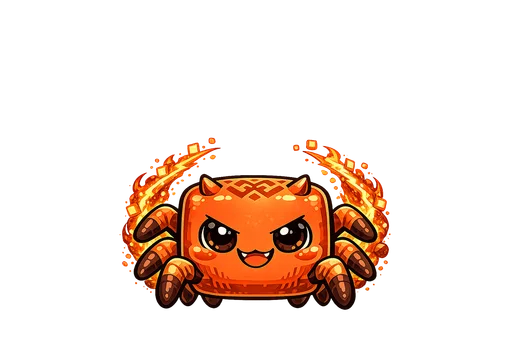
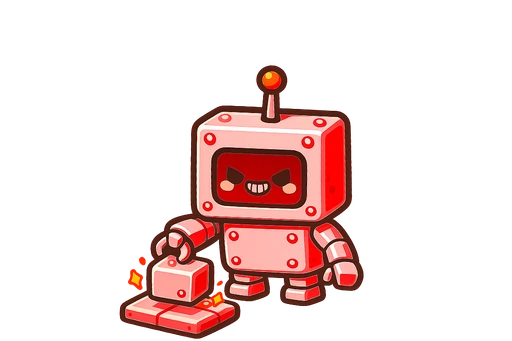
game: 雷城鐵機人(原蜘蛛)+鐵塊機制、前2後1陣型、餵卡回收1.0
- 蜘蛛→鐵機人:c36-c40 改名+3星進化(◯鐵機人/大鐵機/邪惡鐵機)+全套貼圖+電磁絞鎖
- 鐵塊機制 _ironAct:放連體鐵塊(1/1/2/3格)卡位,避開湊滿宮線,清了0傷害,盤面≤1/4停放;自己鐵塊未清→不放新塊(1星普攻/2星+2倍),清掉才再放
- 鐵塊清除金屬碎裂演出(清宮/清線+風技);computeClears 排除鐵塊傷害
- 雷城入門/初級/中級/上級關卡
- 3隻敵人關卡=前2後1陣型(中間站後,套用全部3隻關)
- 餵卡素材回收 0.6→1.0(練過的卡餵下去不虧)

Changed region(s): [[0.2188, 0.176, 0.7812, 0.9971]]

diff --git a/public/play/index.html b/public/play/index.html
@@ -109,7 +109,7 @@
       { emoji: '🐰', name: '兔系', color: '#e89ab0', cards: { fire: 'c31', water: 'c32', thunder: 'c33', earth: 'c34', wind: 'c35' } },   // 占位(圖/名待補)
       { emoji: '🐟', name: '魚系', color: '#7fc8e8', cards: { fire: 'c14', water: 'c17', thunder: 'c21', earth: 'c24', wind: 'c28' } },   // 獸魂隊(圖/名待補)
       { emoji: '🇹🇼', name: '台灣特有種', color: '#8fe0a8', cards: { fire: 'c15', water: 'c18', thunder: 'c22', earth: 'c26', wind: 'c30' } },
-      { emoji: '🕷', name: '妖·蜘蛛', color: '#b79bff', cards: { fire: 'c36', water: 'c37', thunder: 'c38', earth: 'c39', wind: 'c40' } },   // 雜牌卡(未標家族,保留 genin 1星,進化2星換岩甲圖)
+      { emoji: '🤖', name: '鐵機人', color: '#b79bff', cards: { fire: 'c36', water: 'c37', thunder: 'c38', earth: 'c39', wind: 'c40' } },   // 雜牌卡(未標家族,保留 genin 1星;1→2星換大鐵機圖,2→3星換邪惡鐵機圖,見 SPIDER_EVO/SPIDER_EVO2,原名蜘蛛,2026-07-31 改名鐵機人)
       { emoji: '👺', name: '哥布林', color: '#ff6a4a', cards: { fire: 'c41', water: 'c42', thunder: 'c43', earth: 'c44', wind: 'c45' } },   // 雜牌卡(未標家族,保留 genin 1星;1→2星換青年哥布林圖,2→3星換戰士哥布林圖,見 GHOST_EVO/GHOST_EVO2)
       { emoji: '🧱', name: '妖·牆', color: '#c9a86a', cards: { fire: 'c46', water: 'c47', thunder: 'c48', earth: 'c49', wind: 'c50' } },   // 雜牌卡(未標家族,保留 genin 1星,進化2星換城牆怪圖);土城盾兵/盾王借此圖
       { emoji: '🦆', name: '賊鴨', color: '#b06ad0', cards: { fire: 'c51', water: 'c52', thunder: 'c53', earth: 'c54', wind: 'c55' } },   // 雜牌卡(未標家族,保留 genin 1星;1→2星換大賊鴨圖,2→3星換盜賊鴨圖,見 WITCH_EVO/WITCH_EVO2,原名魔女);風城消卡片塊敵人/魔王借此圖(魔王另借 king_full)
@@ -127,7 +127,7 @@
     ['🐟', '魚', '#7fc8e8', 0x16314d, ['c14', 'c17', 'c21', 'c24', 'c28']],
     ['🐰', '兔', '#e89ab0', 0x3a1f2a, ['c31', 'c32', 'c33', 'c34', 'c35']],
     ['🐦', '鳥', '#c79bff', 0x231a26, ['c01', 'c04', 'c07', 'c25', 'c29']],
-    ['🕷', '妖', '#b79bff', 0x241a2e, ['c36', 'c37', 'c38', 'c39', 'c40']],
+    ['🤖', '鐵機人', '#b79bff', 0x241a2e, ['c36', 'c37', 'c38', 'c39', 'c40']],
     ['👺', '妖', '#ff6a4a', 0x2e1a1a, ['c41', 'c42', 'c43', 'c44', 'c45']],
     ['🧱', '妖', '#c9a86a', 0x2a2418, ['c46', 'c47', 'c48', 'c49', 'c50']],
     ['🦆', '妖', '#b06ad0', 0x241a2e, ['c51', 'c52', 'c53', 'c54', 'c55']],
@@ -366,7 +366,7 @@
     const ENEMY_BRIEF = {   // 🎓中級敵情簡報:每城第一次進場(中級+)跳一次說明,可勾「本關不再顯示」
       fire: { name: '火之洞窟', icon: '🔥', skill: '終結技', art: 'grunt_fire', threat: '魔王會「蓄力」放大招,一發打掉你大量血!', counter: '看到牠蓄力,趁機用「水」(剋火)清宮 → 打斷大招' },
       water: { name: '水之神殿', icon: '💚', skill: '補師', art: 'healer_water', threat: '補師會幫全體敵人回血,魔王還會「復活」被你清掉的小兵!', counter: '先集火解決補師;魔王詠唱復活時用「土」(剋水)清宮打斷' },
-      thunder: { name: '雷之高原', icon: '🕸', skill: '蜘蛛網', art: 'caster_thunder', threat: '術士會用蛛網黏住你托盤的一塊方塊,那手就少一塊能用!', counter: '看頭上預告;用「風」(剋雷)清宮打斷施法 / 解鎖' },
+      thunder: { name: '雷之高原', icon: '🤖', skill: '鐵塊', art: 'caster_thunder', threat: '鐵機人會在盤面放「鐵塊」卡住你的落點;清宮/清線能連鐵塊一起清,但鐵塊不算攻擊力→那一清傷害變弱!', counter: '優先清掉卡著鐵塊的宮(移除它+恢復攻擊);沒清掉的鐵塊,放它的鐵機人下輪會 2 倍攻擊' },
       earth: { name: '土之遺跡', icon: '🛡', skill: '護盾', art: 'shield_earth', threat: '敵人帶「護盾」,普通攻擊打不動牠!', counter: '一手清夠多格(HIT)或連夠多段(COMBO)→ 打破護盾' },
       wind: { name: '風之峽谷', icon: '💨', skill: '消屬塊', art: 'caster_wind', threat: '術士會消掉你卡上存的屬塊;魔王還用「黑洞」把整塊吸走!', counter: '屬塊別囤著、趕快用掉;魔王預告時用「火」(剋風)清宮打斷' },
     };
@@ -470,12 +470,12 @@
       { id: 'c33', name: '閃閃', el: 'thunder', race: 'beast', rank: 'jonin', atk: 275, hp: 300, rcv: 63, attrs: ['thunder'] },
       { id: 'c34', name: '墩墩', el: 'earth', race: 'beast', rank: 'jonin', atk: 100, hp: 900, rcv: 50, attrs: ['earth'] },
       { id: 'c35', name: '蓬蓬', el: 'wind', race: 'beast', rank: 'jonin', atk: 190, hp: 555, rcv: 63, attrs: ['wind'] },
-      /* ── 🕷 蜘蛛系(雜牌卡,故意不進 CARD_FAMILY/TW_IDS→保留 genin ★1、低三圍;1★→2★進化=換名換圖「岩甲◯蜘蛛」,見 SPIDER_EVO)── */
-      { id: 'c36', name: '火蜘蛛', el: 'fire', race: 'yokai', rank: 'genin', atk: 130, hp: 90, rcv: 8, attrs: ['fire'] },
-      { id: 'c37', name: '水蜘蛛', el: 'water', race: 'yokai', rank: 'genin', atk: 65, hp: 110, rcv: 24, attrs: ['water'] },
-      { id: 'c38', name: '雷蜘蛛', el: 'thunder', race: 'yokai', rank: 'genin', atk: 115, hp: 95, rcv: 14, attrs: ['thunder'] },
-      { id: 'c39', name: '土蜘蛛', el: 'earth', race: 'yokai', rank: 'genin', atk: 80, hp: 140, rcv: 14, attrs: ['earth'] },
-      { id: 'c40', name: '風蜘蛛', el: 'wind', race: 'yokai', rank: 'genin', atk: 100, hp: 100, rcv: 16, attrs: ['wind'] },
+      /* ── 🤖 鐵機人系(雜牌卡,故意不進 CARD_FAMILY/TW_IDS→保留 genin ★1、低三圍;1★→2★→3★三階進化,見 SPIDER_EVO/SPIDER_EVO2;內部 id/物種 key 沿用蜘蛛時期,原名"蜘蛛",2026-07-31 改名鐵機人)── */
+      { id: 'c36', name: '火鐵機人', el: 'fire', race: 'yokai', rank: 'genin', atk: 130, hp: 90, rcv: 8, attrs: ['fire'] },
+      { id: 'c37', name: '水鐵機人', el: 'water', race: 'yokai', rank: 'genin', atk: 65, hp: 110, rcv: 24, attrs: ['water'] },
+      { id: 'c38', name: '雷鐵機人', el: 'thunder', race: 'yokai', rank: 'genin', atk: 115, hp: 95, rcv: 14, attrs: ['thunder'] },
+      { id: 'c39', name: '土鐵機人', el: 'earth', race: 'yokai', rank: 'genin', atk: 80, hp: 140, rcv: 14, attrs: ['earth'] },
+      { id: 'c40', name: '風鐵機人', el: 'wind', race: 'yokai', rank: 'genin', atk: 100, hp: 100, rcv: 16, attrs: ['wind'] },
       /* ── 👹 鬼系(雜牌卡,完全鏡像蜘蛛系:故意不進 CARD_FAMILY/TW_IDS→保留 genin ★1、低三圍;1★→2★進化=換名換圖「◯鬼哥」,見 GHOST_EVO)── */
       { id: 'c41', name: '火哥布林', el: 'fire', race: 'yokai', rank: 'genin', atk: 140, hp: 85, rcv: 8, attrs: ['fire'] },
       { id: 'c42', name: '水哥布林', el: 'water', race: 'yokai', rank: 'genin', atk: 70, hp: 120, rcv: 22, attrs: ['water'] },
@@ -510,8 +510,8 @@
       { id: 'c64', name: '土晶精', el: 'earth', race: 'spirit', rank: 'chunin', atk: 20, hp: 120, rcv: 5, attrs: ['earth'] },
       { id: 'c65', name: '風晶精', el: 'wind', race: 'spirit', rank: 'chunin', atk: 20, hp: 120, rcv: 5, attrs: ['wind'] },
     ];
-    // 蜘蛛系 1★→2★進化換名換圖表:進化階(getCardEvo)≥1 → 顯示「岩甲◯蜘蛛」+ <id>_e_ 圖(canEvolve 已擋≥1 不可再進到 evo2,只有兩形)
-    const SPIDER_EVO = { c36: '岩甲火蜘蛛', c37: '岩甲水蜘蛛', c38: '岩甲雷蜘蛛', c39: '岩甲土蜘蛛', c40: '岩甲風蜘蛛' };
+    // 鐵機人系(原蜘蛛)1★→2★進化換名換圖表:進化階(getCardEvo)≥1 → 顯示「◯大鐵機」+ <id>_e_ 圖;2★→3★再進化見 SPIDER_EVO2
+    const SPIDER_EVO = { c36: '火大鐵機', c37: '水大鐵機', c38: '雷大鐵機', c39: '土大鐵機', c40: '風大鐵機' };
     // 鬼系(現已改名哥布林系)1★→2★進化換名換圖表:進化階(getCardEvo)≥1 → 顯示「◯青年哥布林」+ <id>_e_ 圖
     const GHOST_EVO = { c41: '火青年哥布林', c42: '水青年哥布林', c43: '雷青年哥布林', c44: '土青年哥布林', c45: '風青年哥布林' };
     const WALL_EVO = { c46: '火城牆怪', c47: '水城牆怪', c48: '雷城牆怪', c49: '土城牆怪', c50: '風城牆怪' };   // 牆怪 1★→2★進化換名換圖(鏡像蜘蛛/鬼系):進化階≥1 → 顯示「◯城牆怪」+ <id>_e_ 圖;土城盾王借城牆怪 e_full
@@ -519,10 +519,11 @@
     const YAKUSHI_EVO = { c56: '大火藥師', c57: '大水藥師', c58: '大雷藥師', c59: '大土藥師', c60: '大風藥師' };   // 藥師 1★→2★進化換名換圖(鏡射魔女):進化階≥1 → 顯示「大◯藥師」+ <id>_e_ 圖;水城魔王借大水藥師 e_full
     const EVO_CARDS = Object.assign({}, SPIDER_EVO, GHOST_EVO, WALL_EVO, WITCH_EVO, YAKUSHI_EVO);   // 合併進化雜牌卡名表:凡是「進化換名換圖」共用邏輯(cardArtKey/_loadCardArt/_loadCardThumbs/_ensureFullArt/canEvolve/GACHA_ROSTER/cardName/進化預覽)一律讀這裡,不分蜘蛛/鬼/牆/魔女/藥師
     // 哥布林系(原鬼系)2★→3★再進化名表:進化階(getCardEvo)≥2 → 顯示「◯戰士哥布林」+ <id>_e2_ 圖(3星,2026-07-29 加)。
-    // 目前哥布林系、賊鴨系(原魔女 c51~c55)支援 evo2;其他雜牌系(蜘蛛/牆/藥師)仍維持 1★→2★ 兩形上限。別系要開 evo2 就往 EVO2_CARDS 加。
+    // 目前哥布林系、賊鴨系(原魔女 c51~c55)、鐵機人系(原蜘蛛 c36~c40)支援 evo2;其他雜牌系(牆/藥師)仍維持 1★→2★ 兩形上限。別系要開 evo2 就往 EVO2_CARDS 加。
     const GHOST_EVO2 = { c41: '火戰士哥布林', c42: '水戰士哥布林', c43: '雷戰士哥布林', c44: '土戰士哥布林', c45: '風戰士哥布林' };
     const WITCH_EVO2 = { c51: '火盜賊鴨', c52: '水盜賊鴨', c53: '雷盜賊鴨', c54: '土盜賊鴨', c55: '風盜賊鴨' };   // 賊鴨(原魔女)2★→3★再進化名表:進化階≥2 → 顯示「◯盜賊鴨」+ <id>_e2_ 圖(3星,2026-07-30 加);魔王另借 king_full(4星「◯盜賊鴨王」非卡片)
-    const EVO2_CARDS = Object.assign({}, GHOST_EVO2, WITCH_EVO2);   // 合併「可進到 evo2(3星)」名表:目前哥布林系、賊鴨系支援,別的系要開 evo2 往這加
+    const SPIDER_EVO2 = { c36: '火邪惡鐵機', c37: '水邪惡鐵機', c38: '雷邪惡鐵機', c39: '土邪惡鐵機', c40: '風邪惡鐵機' };   // 鐵機人(原蜘蛛)2★→3★再進化名表:進化階≥2 → 顯示「◯邪惡鐵機」+ <id>_e2_ 圖(3星,2026-07-31 加);魔王另借 king_full(4星「◯惡鐵王」非卡片)
+    const EVO2_CARDS = Object.assign({}, GHOST_EVO2, WITCH_EVO2, SPIDER_EVO2);   // 合併「可進到 evo2(3星)」名表:目前哥布林系、賊鴨系、鐵機人系支援,別的系要開 evo2 往這加
     function cardName(id) { const c = ROSTER.find(x => x.id === id) || {}; const t = getCardEvo(id); if (t >= 2 && EVO2_CARDS[id]) return EVO2_CARDS[id]; return (EVO_CARDS[id] && t >= 1) ? EVO_CARDS[id] : c.name; }   // 卡片顯示名字統一入口(evo2 名表優先於 evo1 名表,再 fallback ROSTER.name)
     // CONFIG → battle-core.js
     const KATA = ['一之型', '二之型', '三之型', '四之型', '五之型', '禁術', '奧義'];   // LV1~7(簡單數字,日文漢字通用)
@@ -791,7 +792,7 @@
       wind: { name: '疾風亂舞', cd: 5, icon: '🌀', desc: '清掉最滿的一宮,化風刃單體攻擊(+1連擊)' },
     };
     // 物種卡專屬主動技(覆蓋屬性預設;activeSkill(el,id) 會優先吃這裡)→ 台灣隊等招牌卡用
-    const SPIDER_ACTIVE = { name: '蛛絲纏縛', cd: 4, icon: '🕸', desc: '鎖定 1 敵,其出手倒數 +1 手' };   // 🕷蜘蛛系(c36~c40)共用同一份主動技物件
+    const SPIDER_ACTIVE = { name: '電磁絞鎖', cd: 4, icon: '🤖', desc: '鎖定 1 敵,其出手倒數 +1 手' };   // 🤖鐵機人系(c36~c40,原蜘蛛)共用同一份主動技物件;技名 2026-07-31 改「電磁絞鎖」(原「蛛絲纏縛」),效果不變
     const GHOST_ACTIVE = { name: '怨擊', cd: 5, icon: '👊', desc: '對指定 1 敵造成 攻擊力×2 傷害(吃相剋)' };
     const WALL_ACTIVE = { name: '築牆阻擋', cd: 6, icon: '🧱', desc: '全體敵人出手倒數 +1 手' };   // 👹鬼系(c41~c45)共用同一份主動技物件
     const WITCH_ACTIVE = { name: '群鴨亂啄', cd: 6, icon: '🦆', desc: '對全體敵人造成 攻擊力×1.6 傷害(吃相剋)' };   // 🦆賊鴨系(c51~c55,原魔女):全體傷害(區隔🐶群擊×2、👹怨擊單體×2)
@@ -1532,7 +1533,7 @@
       return res;
     }
     const FEED_EXP = { genin: 60, chunin: 150, jonin: 400, kage: 900 };   // 各稀有度素材"基礎值"(per-instance level 後:實際經驗還要加上素材自己已投入的經驗,見 fodderFeedExp)
-    const FEED_RETURN_RATIO = 0.6;   // 素材吃回自己已投入經驗的比例;數值與後端 _lib/gamedata.ts FEED_RETURN_RATIO 一致(見 per-instance-level-spec.md「素材經驗新公式」)
+    const FEED_RETURN_RATIO = 1.0;   // 素材吃回自己已投入經驗的比例(1.0=全額吐回,練過的素材餵下去不虧,同龍族);數值與後端 _lib/gamedata.ts FEED_RETURN_RATIO 一致
     function fodderFeedExp(rank, level, sameEl) {   // 🆕 per-instance level:素材給的經驗看素材自己幾級(不再只看稀有度)。accInvested=素材已投入總經驗=25×(lv-1)×lv(封閉式,等價 expToNext(1..lv-1)累加);exp=round(base+accInvested×0.6)×(同屬?1.5:1)。公式須與後端 _lib/cards.ts cardFeedExp 一致
       const lv = (level || 1) < 1 ? 1 : (level || 1);
       const base = FEED_EXP[rank] || FEED_EXP.genin;
@@ -1608,7 +1609,7 @@
       const c = ROSTER.find(x => x.id === id), t = getCardEvo(id);
       if (!c) return { ok: false, msg: '卡片資料不存在' };
       if (MATERIAL_IDS.has(id)) return { ok: false, msg: '素材卡不可進化(拿去進化別的卡)' };   // 純素材:不給練成戰力卡
-      // 單一 cap:👺哥布林系 1★→2★→3★(cap 2);🕷蜘蛛/🧱牆/🔮魔女/💊藥師系只有兩形(cap 1);一般卡走 EVO_MAX。與 line 325 _evoCap、後端 evolve.ts evoCap 同一套,別再用 else-if(EVO_CARDS 含哥布林,t=1 會被誤擋)
+      // 單一 cap:👺哥布林系、🦆賊鴨系、🤖鐵機人系(原蜘蛛) 1★→2★→3★(cap 2);🧱牆/💊藥師系只有兩形(cap 1);一般卡走 EVO_MAX。與 line 325 _evoCap、後端 evolve.ts evoCap 同一套,別再用 else-if(EVO_CARDS 含哥布林,t=1 會被誤擋)
       const evoCap = EVO2_CARDS[id] ? 2 : (EVO_CARDS[id] ? 1 : EVO_MAX);
       if (t >= evoCap) return { ok: false, msg: '已達進化上限' };
       if (getCardLv(id) < MAXLV) return { ok: false, msg: '需先練滿 Lv.' + MAXLV };
@@ -2231,7 +2232,7 @@
         if (this.counterTeach) _loadElSvgs(this);   // 🩹序章弱點徽章要用元素 SVG icon(el_<el>)
         { const d = this.dungeonId, b = DUNGEON_BG[d]; if (b) { if (!this.textures.exists('bg_' + d + '_back')) this.load.image('bg_' + d + '_back', b.back); if (!this.textures.exists('bg_' + d + '_front')) this.load.image('bg_' + d + '_front', b.front); } }   // 只載「當前這關」背景(不再一次載全部地城)
         if (this.dungeonId === 'tower') TOWER_MID.forEach(c => { if (!this.textures.exists(c.key)) this.load.image(c.key, c.src); });   // 塔中景元素方塊→只在打塔時載
-        if (this.dungeonId === 'thunder') _loadCardArt(this, ['c38']);   // 🕷 雷之高原借蜘蛛透明大圖當敵圖:載 c38雷蜘蛛(法師)+岩甲雷蜘蛛(魔王,_e)完整大圖
+        if (this.dungeonId === 'thunder') { _loadCardArt(this, ['c38']); if (!this.textures.exists('card_c38_king_full')) this.load.image('card_c38_king_full', 'art/cards/c38_king_full.webp'); }   // 🤖 雷之高原借鐵機人(原蜘蛛)透明大圖當敵圖:載 c38雷鐵機人(雜兵)完整大圖;魔王另載專屬 4星雷惡鐵王大圖(非玩家卡,只在此當魔王,比照 wind 分支)
         if (this.dungeonId === 'fire') { _loadCardArt(this, ['c41']); if (!this.textures.exists('card_c41_king_full')) this.load.image('card_c41_king_full', 'art/cards/c41_king_full.webp'); }   // 👺 火之火山借哥布林卡透明大圖當敵圖:載 c41哥布林(雜兵)完整大圖;魔王另載專屬 4星哥布林酋長大圖(非玩家卡,只在此當魔王)
         if (this.dungeonId === 'earth') _loadCardArt(this, ['c49']);   // 🧱 土之山岳借牆怪透明大圖當盾兵/盾王圖:載 c49土牆怪(盾兵)+土城牆怪(盾王,_e)完整大圖(比照 fire 分支)
         if (this.dungeonId === 'wind') { _loadCardArt(this, ['c55']); if (!this.textures.exists('card_c55_king_full')) this.load.image('card_c55_king_full', 'art/cards/c55_king_full.webp'); }   // 🦆 風之峽谷借賊鴨(原魔女)透明大圖當消卡片塊敵/魔王圖:載 c55風賊鴨(小兵)完整大圖;魔王另載專屬 4星風賊鴨王大圖(非玩家卡,只在此當魔王,比照 fire 分支)
@@ -2257,7 +2258,10 @@
       enemyTexKey(e) {
         const el = e.el; let dk = (this.diff && this.diff.key) || 'normal';
         if (this.dungeonId === 'prologue') dk = 'baby';   // 序章=新手村:挑圖固定當嬰兒級(只換外觀,不動數值)→ 魔王 boss_baby(m002)+雜兵 grunt(m001),不出 m003 以上兇怪
-        if (this.dungeonId === 'thunder') {   // 🕷 雷之高原=蜘蛛巢:魔王→岩甲雷蜘蛛、法師(麻痺/術士)→雷蜘蛛(借 c38 蜘蛛卡的方形縮圖當敵圖)
+        if (this.dungeonId === 'thunder') {   // 🤖 雷之高原=鐵機人城(原蜘蛛巢):tier 星級圖優先(1星→c38、2星→_e、3星→_e2);無 tier 的魔王才用 4星惡鐵王
+          const gk = e.tier === 3 ? 'card_c38_e2_full' : e.tier === 2 ? 'card_c38_e_full' : e.tier === 1 ? 'card_c38_full' : null;
+          if (gk && this.textures.exists(gk)) return gk;
+          if (e.boss && this.textures.exists('card_c38_king_full')) return 'card_c38_king_full';
           if (e.boss && this.textures.exists('card_c38_e_full')) return 'card_c38_e_full';
           if ((e.paralyze > 0 || e.arch === 'caster') && this.textures.exists('card_c38_full')) return 'card_c38_full';
         }
@@ -3317,10 +3321,16 @@
           { x: BX0 + BW5 * 0.18, dy: 18 }, { x: CX, dy: 18 }, { x: BX0 + BW5 * 0.82, dy: 18 },   // 索引0,1,2=前排左/中/右(較低、較前);對稱以 CX 為中心
           { x: BX0 + BW5 * 0.34, dy: -30 }, { x: BX0 + BW5 * 0.66, dy: -30 },                      // 索引3,4=後排左/右(較高、站前排空隙、被前排半遮);0.34/0.66 對稱且拉開
         ] : null;
+        const THREE = n === 3 && !this.enemyLab && !this.tut && !this.lesson;   // 🎯 3隻→前2後1(像魔王關:兩側站前、中間站後排被半遮);實驗室/教學/課程固定站法不套
+        const BW3 = W - 2 * BX0, threeLay = THREE ? [
+          { x: BX0 + BW3 * 0.20, dy: 16 },   // 0 左·前(往前壓低)
+          { x: CX, dy: -18 },                // 1 中·後(較高、站後排、z-order 被兩側半遮)
+          { x: BX0 + BW3 * 0.80, dy: 16 },   // 2 右·前
+        ] : null;
         this.enemies.forEach((e, i) => {
-          const lay = fiveLay && fiveLay[i];
+          const lay = (fiveLay && fiveLay[i]) || (threeLay && threeLay[i]);
           const x = lay ? Math.round(lay.x) : (this.enemyLab ? [Math.round(W * 0.16), CX, Math.round(W * 0.84)][i] : Math.round(CX + ((20 + slot * (i + 0.5)) - CX) * ENEMY_SPREAD)), cy = lay ? Math.round(BATTLE_CY + lay.dy) : BATTLE_CY;   // 前3後2:各自 x/y;實驗室固定三點;否則單排往中央集中
-          let szc = FIVE ? Math.max(50, Math.min(96, Math.round((CARDS_Y - 81) * 0.58))) : Math.max(50, Math.min(slot - 8, 126, Math.round((CARDS_Y - 81) * 0.92)));   // 前3後2:縮小讓兩排塞得下+不擋卡;否則原尺寸(取寬/高空檔較小者)
+          let szc = FIVE ? Math.max(50, Math.min(96, Math.round((CARDS_Y - 81) * 0.58))) : THREE ? Math.max(50, Math.min(slot - 8, 108, Math.round((CARDS_Y - 81) * 0.78))) : Math.max(50, Math.min(slot - 8, 126, Math.round((CARDS_Y - 81) * 0.92)));   // 前3後2/前2後1:縮小讓前後排塞得下+不擋卡;否則原尺寸(取寬/高空檔較小者)
           if (this.enemyLab && e.boss) szc = Math.round(szc * 1.2);   // 實驗室魔王較大
           e.cardW = szc; e.cardH = szc;
           e.card = this.add.rectangle(x, cy, szc, szc, 0x000000, 0).setInteractive();   // 無底色:透明矩形只當點擊區
@@ -3367,7 +3377,7 @@
         if (!this.enemyLab) this.enemies.forEach(e => { if (e.shield && !e.dead && e.sprite) { e.shieldUp = true; this._buildATField(e, e.shieldKind || 'hit'); } });   // 🛡盾兵/盾王:進場即帶盾罩(AT力場;實驗室不自動掛,靠demo鈕)
         this.enemies.forEach(e => { if (e.shadow) this.enemyG.add(e.shadow); });   // 影は全 sprite の背面(先に add)
         // 敵方同層 z 序:敵中 > 敵左 > 敵右(越靠中央畫越上;同距時左>右)。依此由後往前加入容器
-        const zorder = FIVE ? [3, 4, 0, 2, 1] : this.enemies.map((e, i) => i).sort((a, b) => {   // 前3後2:後排(3,4)先加畫在底、前排(0前左/2前右/1前中最上)後加→前排半遮後排
+        const zorder = FIVE ? [3, 4, 0, 2, 1] : THREE ? [1, 0, 2] : this.enemies.map((e, i) => i).sort((a, b) => {   // 前2後1:中間(1)先加畫在底(站後排被半遮)、兩側(0左/2右)後加;前3後2同理;平排則靠中央者最上
           const ba = this.enemies[a].boss ? 0 : 1, bb = this.enemies[b].boss ? 0 : 1;
           if (ba !== bb) return ba - bb;   // 魔王先加→畫在最底(站護衛後面)
           const da = Math.abs(this.enemies[a].card.x - CX), db = Math.abs(this.enemies[b].card.x - CX);
@@ -3477,7 +3487,7 @@
           rc.setAlpha(1).setScale(1); if (sp) { this.tweens.killTweensOf(sp); sp.setAlpha(1).setScale(RECT / 96); }   // 還原溶解動畫殘留的 alpha/scale
           if (this.board[r][c]) {
             const el = this.board[r][c].el;
-            if (el === 'junk') { rc.setFillStyle(0x4a4e57).setStrokeStyle(2, 0x20232a, 0.95); if (sp) sp.setVisible(false); }   // 鐵塊維持鋼底立體(drawJunkFx),不套糖果塊
+            if (el === 'junk' || el === 'iron') { rc.setFillStyle(el === 'iron' ? 0x455266 : 0x4a4e57).setStrokeStyle(2, 0x20232a, 0.95); if (sp) sp.setVisible(false); }   // 鋼鐵塊(junk硬鎖/iron可清但0傷害):鋼底立體不套糖果塊;iron 偏藍鋼色區分
             else { const fc = EL[el] ? EL[el].color : NEUTRAL_FILL; rc.setFillStyle(be ? EL[be].dark : NEUTRAL_DARK).setStrokeStyle(2, 0x000000, 0); if (sp) sp.setTexture(this._ensureBlockTex(fc)).setVisible(true); }   // 暗底格 + 圓角糖果塊(貼圖):圓角露出格底=塊分明
           }
           else { rc.setFillStyle(be ? EL[be].dark : NEUTRAL_DARK).setStrokeStyle(2, 0x000000, 0); if (sp) sp.setVisible(false); }
@@ -3493,7 +3503,7 @@
         if (this.junkNums) this.junkNums.forEach(t => t.destroy()); this.junkNums = [];
         for (let r = 0; r < N; r++)for (let c = 0; c < N; c++) {
           const cell = this.board[r][c]; if (!cell) continue; const x = BX0 + c * CS, y = BY0 + r * CS, s = RECT;
-          if (cell.el === 'junk') {
+          if (cell.el === 'junk' || cell.el === 'iron') {
             const p = 2, t = 3;
             g.fillStyle(0x6d727c, 0.9); g.fillRect(x + p, y + p, s - 2 * p, t); g.fillRect(x + p, y + p, t, s - 2 * p);                       // 左/上亮邊
             g.fillStyle(0x282b31, 0.95); g.fillRect(x + p, y + s - p - t, s - 2 * p, t); g.fillRect(x + s - p - t, y + p, t, s - 2 * p);              // 右/下暗邊
@@ -3879,7 +3889,7 @@
           this.renderTray(); this.tonFloat('★ 靈猴造塊', '#b6ffae');
           return;
         }
-        if (cid === 'c36' || cid === 'c37' || cid === 'c38' || cid === 'c39' || cid === 'c40') {   // 🕷蜘蛛系 蛛絲纏縛:鎖定單敵,出手延遲 +1,CD4(比照 fire/c22 的 targetEnemy() 單體鎖定寫法)
+        if (cid === 'c36' || cid === 'c37' || cid === 'c38' || cid === 'c39' || cid === 'c40') {   // 🤖鐵機人系(原蜘蛛) 電磁絞鎖:鎖定單敵,出手延遲 +1,CD4(比照 fire/c22 的 targetEnemy() 單體鎖定寫法)
           const tgt = this.targetEnemy(); if (!tgt) return;
           const col = EL[card.el] ? EL[card.el].color : 0xb79bff;
           this.chargeAt(ox, oy, col, 300);
@@ -3996,7 +4006,9 @@
         this.combo += 1; const comboMult = comboMultiplier(this.combo, this.lead);   // battle-core 共用 combo 倍率
         const tgt = this.targetEnemy() || this.enemies.find(e => !e.dead);
         const wmul = tgt ? (EL.wind.beats === tgt.el ? CONFIG.ADV_MULT : ((EL[tgt.el] && EL[tgt.el].beats === 'wind') ? CONFIG.WEAK_MULT : CONFIG.NORM_MULT)) : 1;
-        const dmg = Math.round((cellsB.length * CONFIG.HIT_BASE + atk * wmul * CONFIG.ELEM_RATE * cellsB.length) * comboMult * WIND_SKILL_MUL);   // ×WIND_SKILL_MUL:風主動技倍率(追火單發爆發)
+        const dmgN = cellsB.reduce((s, rc) => s + ((this.board[rc[0]][rc[1]] && this.board[rc[0]][rc[1]].el === 'iron') ? 0 : 1), 0);   // 🔩鐵塊清了不計攻擊(風技清宮同理,排除鐵塊格)
+        const dmg = Math.round((dmgN * CONFIG.HIT_BASE + atk * wmul * CONFIG.ELEM_RATE * dmgN) * comboMult * WIND_SKILL_MUL);   // ×WIND_SKILL_MUL:風主動技倍率(追火單發爆發)
+        cellsB.filter(([r, c]) => this.board[r][c] && this.board[r][c].el === 'iron').forEach(([r, c]) => this._junkShatter && this._junkShatter(BX0 + c * CS + RECT / 2, BY0 + r * CS + RECT / 2, 0x9aa8bd, 'break'));   // 🔩風技清宮也連鐵塊清→金屬碎裂
         cellsB.forEach(([r, c]) => { this.board[r][c] = null; }); this.refreshBoard(); this.showCombo(); this.renderCombo(true);
         this.labSnd('s_clear_n', 0.65);   // 風技就是解宮 → 用解宮 9hit 音(powerup10 一次),不用通用主動技音
         const cen = this.cellCenter(br + 1, bc + 1), col = EL.wind.color;
@@ -4708,6 +4720,69 @@
         }
         this.enemyAttack(e); e.timer = e.interval;
       }
+      _ironAct(e) {   // 🤖鐵機人出手:普通攻擊 + 放連體鐵塊(e.iron格)卡位;鐵塊清了不計攻擊(battle-core)、避開會湊滿宮/線的位置;盤面≤1/4空停放(免卡盤);ironPunish 敵上次鐵塊沒清→這手改2倍攻擊不放新塊(防洪+懲罰)
+        const ex = e.sprite ? e.sprite.x : CX, ey = (e.sprite ? e.sprite.y : 60);
+        const prevAlive = e._ironCells && e._ironCells.some(rc => { const cell = this.board[rc[0]][rc[1]]; return cell && cell.el === 'iron'; });   // 自己上次放的鐵塊還在?(不分星級都要判→免一直堆鐵塊清不完);保留 _ironCells 繼續追蹤,不清掉
+        if (prevAlive) {   // 鐵塊還在→這回合不放新塊;ironPunish(2星+)→2倍攻擊,1星→普通攻擊。等玩家把它清掉,下輪才會再放
+          if (e.ironPunish) { this.floatText(ex, ey - 34, '🤖 鐵塊未清·2倍攻擊!', '#ffd24a'); this.enemyAttack(e, { dmg: e.atk * 2, big: true }); }
+          else this.enemyAttack(e);
+          e.timer = e.interval; return;
+        }
+        let empty = 0; for (let r = 0; r < N; r++) for (let c = 0; c < N; c++) if (!this.board[r][c]) empty++;
+        const shape = (empty > (N * N) / 4) ? this._findIronSpot(e.iron || 1) : null;   // 安全閥:空格>1/4 才放
+        if (!shape || !shape.length) { this.enemyAttack(e); e.timer = e.interval; return; }   // 盤面緊/無合法位→普通攻擊
+        shape.forEach(rc => { this.board[rc[0]][rc[1]] = { el: 'iron' }; });   // 放鐵塊(模型)
+        e._ironCells = shape.map(rc => rc.slice());   // 記住這次放的格,下輪判有沒有被清
+        this._eneCast && this._eneCast(e); this.chargeAt(ex, ey, 0x8a93a3, 340); this.labSnd && this.labSnd('s_block', 0.5);
+        this.floatText(ex, ey - 34, '🤖 放置鐵塊 ×' + shape.length, '#aab2c2');
+        shape.forEach((rc, i) => {
+          const cen = this.cellCenter(rc[0], rc[1]);
+          this.time.delayedCall(200 + i * 110, () => {
+            const ctrl = { x: (ex + cen.x) / 2, y: Math.min(ey, cen.y) - 70 };
+            this.flyBall(ex, ey, cen.x, cen.y, 0x9aa3b3, ctrl, 340, () => {   // 鐵機人→該格丟一塊鐵
+              this.labSnd && this.labSnd('s_boom', 0.4);
+              const pf = this.add.circle(cen.x, cen.y, RECT * 0.5, 0x9aa3b3, 0.7).setBlendMode(Phaser.BlendModes.ADD).setDepth(DEPTH.fx);
+              this.tweens.add({ targets: pf, scale: 1.5, alpha: 0, duration: 300, onComplete: () => pf.destroy() });
+              if (!this.resultOpen) this.refreshBoard();   // 鐵塊落地→重繪(鋼鐵外觀)
+            });
+          });
+        });
+        this.enemyAttack(e); e.timer = e.interval;   // 放塊也照常攻擊
+      }
+      _findIronSpot(size) {   // 找連體 size 格的空位放鐵塊:避開會湊滿宮/線的位置、偏好半滿宮(清得掉);找不到就降級 size-1…1;都沒有回 null
+        const empty = [];
+        for (let r = 0; r < N; r++) for (let c = 0; c < N; c++) if (!this.board[r][c]) empty.push([r, c]);
+        if (!empty.length) return null;
+        const boxFillOf = (r, c) => { const br = Math.floor(r / 3) * 3, bc = Math.floor(c / 3) * 3; let n = 0; for (let rr = br; rr < br + 3; rr++) for (let cc = bc; cc < bc + 3; cc++) if (this.board[rr][cc]) n++; return n; };
+        const completes = (cells) => {   // 放下後會不會讓某宮/線變滿(→替玩家觸發清除,要避免)。iron/一般格算填滿,junk 不算
+          const setK = new Set(cells.map(rc => rc[0] + '_' + rc[1]));
+          const isFilled = (r, c) => setK.has(r + '_' + c) || !!(this.board[r][c] && this.board[r][c].el !== 'junk');
+          for (const rc of cells) {
+            const r = rc[0], c = rc[1], br = Math.floor(r / 3) * 3, bc = Math.floor(c / 3) * 3; let boxFull = true;
+            for (let rr = br; rr < br + 3 && boxFull; rr++) for (let cc = bc; cc < bc + 3; cc++) if (!isFilled(rr, cc)) { boxFull = false; break; }
+            if (boxFull) return true;
+            let rowFull = true; for (let cc = 0; cc < N; cc++) if (!isFilled(r, cc)) { rowFull = false; break; } if (rowFull) return true;
+            let colFull = true; for (let rr = 0; rr < N; rr++) if (!isFilled(rr, c)) { colFull = false; break; } if (colFull) return true;
+          }
+          return false;
+        };
+        const emptyKey = new Set(empty.map(rc => rc[0] + '_' + rc[1]));
+        const grow = (start, sz) => {   // 從 start 沿相鄰空格長成連體 sz 格
+          const used = new Set([start[0] + '_' + start[1]]), shape = [start];
+          while (shape.length < sz) {
+            const cands = [];
+            for (const rc of shape) for (const d of [[0, 1], [0, -1], [1, 0], [-1, 0]]) { const nr = rc[0] + d[0], nc = rc[1] + d[1], k = nr + '_' + nc; if (nr >= 0 && nr < N && nc >= 0 && nc < N && emptyKey.has(k) && !used.has(k)) cands.push([nr, nc]); }
+            if (!cands.length) break;
+            const p = cands[Math.floor(Math.random() * cands.length)]; shape.push(p); used.add(p[0] + '_' + p[1]);
+          }
+          return shape;
+        };
+        for (let sz = size; sz >= 1; sz--) {
+          const starts = empty.slice().sort(() => Math.random() - 0.5).sort((a, b) => { const g = (f) => (f >= 2 && f <= 6) ? 0 : 1; return g(boxFillOf(a[0], a[1])) - g(boxFillOf(b[0], b[1])); });   // 半滿宮(2~6已填)起點優先
+          for (const st of starts) { const shape = grow(st, sz); if (shape.length === sz && !completes(shape)) return shape; }
+        }
+        return null;
+      }
       _eatBlockGrunt(e, bi) {   // 術士雜兵:身前開消屬黑洞(慢)→從黑洞射一發到卡上那塊→卡上碎裂(久一點)→該塊 −1 LV(LV1→整塊消)
         const s = this.stored[bi]; if (!s) { this.enemyAttack(e); return; } const el = s.el, col = EL[el].color, ADD = Phaser.BlendModes.ADD, ex = e.sprite ? e.sprite.x : CX, ey = (e.sprite ? e.sprite.y : 60) + (e.cardH || 70) * 0.04, so = this.teamCards[bi] && this.teamCards[bi].storeObj, tx = so ? so.x : CX, ty = so ? so.y : CARDS_Y;
         this._eneCast(e); this.labSnd && this.labSnd('s_clear15', 0.4);
@@ -5018,7 +5093,7 @@
           if (this.resultOpen) { this.locked = false; return; }   // 期間已開結算/勝敗畫面→不再推進
           try {
             this._shieldHandActive = false; this._shieldBreakShown = false; this._lockedStore = {}; this._clearAllLockBadges();   // 🐻本手護盾旗標重置(首擋→轉true→全手擋);🌀封卡旗標每敵回合開始清+清殘留🔒徽章(魔王設→套用到玩家下一手)
-            this.enemies.forEach(e => { if (e.dead || e.hp <= 0) return; if ((e.sealed || 0) > 0) { e.sealed--; return; } if (e._finInterrupted) { e._finInterrupted = false; return; } if (e.finCD > 0) { e.timer--; const FS = e.finStages || 2; if (e.timer <= 0) { e._charging = false; this._launchFinisher(e); } else if (e.timer <= FS) { e._charging = true; this._showEnemyOrb(e, e.timer === 1 ? 3 : Math.min(2, FS - e.timer + 1)); } else { e._charging = false; } this.animTurnGlass(e); return; } if (e._charging) { this.enemyFinisher(e); this.animTurnGlass(e); return; } e.timer--; if (e.timer <= 0) { if (e.finisher > 0) this.enemyFinisher(e); else if (e.healAlly > 0) { this._medicAct(e); } else if (e.eatStored > 0) { this._eatAct(e); } else if (e.shield) { this._shieldAct(e); } else if (e.paralyze > 0) { this._paralyzeAct(e); } else if (e.peck > 0) { this._peckAct(e); } else { this.enemyAttack(e); e.timer = e.interval; } } this.animTurnGlass(e); });   // ⚡麻痺:e.timer 歸0→_paralyzeAct(頭上CD與發動一致);魔王有鎖改攻擊   // 敵出手;補師=雙模式/魔王補師=攻擊+補+復活(_medicAct);★被打斷終結技的敵→跳過;蓄力中每手推進一階;封印=凍結
+            this.enemies.forEach(e => { if (e.dead || e.hp <= 0) return; if ((e.sealed || 0) > 0) { e.sealed--; return; } if (e._finInterrupted) { e._finInterrupted = false; return; } if (e.finCD > 0) { e.timer--; const FS = e.finStages || 2; if (e.timer <= 0) { e._charging = false; this._launchFinisher(e); } else if (e.timer <= FS) { e._charging = true; this._showEnemyOrb(e, e.timer === 1 ? 3 : Math.min(2, FS - e.timer + 1)); } else { e._charging = false; } this.animTurnGlass(e); return; } if (e._charging) { this.enemyFinisher(e); this.animTurnGlass(e); return; } e.timer--; if (e.timer <= 0) { if (e.finisher > 0) this.enemyFinisher(e); else if (e.healAlly > 0) { this._medicAct(e); } else if (e.eatStored > 0) { this._eatAct(e); } else if (e.shield) { this._shieldAct(e); } else if (e.paralyze > 0) { this._paralyzeAct(e); } else if (e.peck > 0) { this._peckAct(e); } else if (e.iron > 0) { this._ironAct(e); } else { this.enemyAttack(e); e.timer = e.interval; } } this.animTurnGlass(e); });   // ⚡麻痺:e.timer 歸0→_paralyzeAct(頭上CD與發動一致);魔王有鎖改攻擊   // 敵出手;補師=雙模式/魔王補師=攻擊+補+復活(_medicAct);★被打斷終結技的敵→跳過;蓄力中每手推進一階;封印=凍結
             const dotRate = Math.max(0, ...this.enemies.filter(e => !e.dead && e.hp > 0 && !(e.sealed > 0)).map(e => e.dot || 0));   // 🔥火關灼燒光環:有灼燒敵活著→每手扣玩家血(取最大率、不疊加);★封印中不灼燒
             if (dotRate > 0) { const dd = Math.max(1, Math.round(this.maxHP * dotRate)); this.playerHP = Math.max(0, this.playerHP - dd); this.floatText(CX, PHP_Y - 16, '🔥灼燒 -' + dd, '#ff7a4a'); this.animPlayerHP(false); if (this.playerHP <= 0) this.gameOver('灼燒焚身'); }
             this.enemies.forEach(e => { if (!e.dead && e.hp > 0 && !(e.sealed > 0) && e.regen > 0) { const hh = Math.max(1, Math.round(e.max * e.regen)); e.hp = Math.min(e.max, e.hp + hh); if (e.sprite) this.floatText(e.sprite.x, e.sprite.y - 24, '💚+' + hh, '#74e09a'); } });   // 💚水關自我回血:每隻回血敵每手回自身血(致死 hp≤0 不回→不會復活);★封印中不自療
@@ -5436,7 +5511,9 @@
           }
         }   // 非蓄力的「被攻擊」敵清到剋屬→出手延後一手
         if (this.firstClear) { this.firstClear = false; track('first_clear'); }   // ☁ 勇者卡/綁定提示改到「教學結束後」(home create → promptAccountBindAfterTutorial),不再戰鬥中打斷
+        const _ironCleared = data.cells.filter(([r, c]) => this.board[r][c] && this.board[r][c].el === 'iron');   // 🔩本次清到的鐵塊格→收集(清空前),溶解時播金屬碎裂
         data.cells.forEach(([r, c]) => { this.board[r][c] = null; });  // 立即從模型移除,避免重複觸發
+        if (_ironCleared.length) this.time.delayedCall(420, () => { _ironCleared.forEach(([r, c]) => this._junkShatter && this._junkShatter(BX0 + c * CS + RECT / 2, BY0 + r * CS + RECT / 2, 0x9aa8bd, 'break')); this.labSnd && this.labSnd('s_block', 0.55); });   // 🔩清宮/清線連鐵塊一起清→金屬碎裂演出(同溶解時機)
         const n = data.cells.length;
         this._placeCleared = true;   // 逐塊 combo:這塊有清到(沒清的塊由 afterAction 把 combo 歸零)
         this.showCombo(); this.renderCombo(true);   // combo 已在頂端 +1(每塊有清才+1)+ 常駐指示器彈一下

diff --git a/public/play/data-stages.js b/public/play/data-stages.js
@@ -141,6 +141,55 @@ const OVERRIDES = {
             { el:'wind', hp:1900, atk:200, turns:3, boss:true, peck:3, peckTray:true, stealStored:true },
             { el:'wind', hp:580, atk:90, turns:3, beh:'healAlly' } ] },
   ],
+  // 🤖雷城=鐵機人:放鐵塊卡位+清了不計攻擊。1星iron1無懲罰(教學)、2星iron1+2倍懲罰、3星連體iron2、4星連體iron3。turns→CD2。S3中間=boss站後
+  'thunder:baby': [
+    // S1:1星鐵機人 ×1(放1格,不懲罰→純認識鐵塊)
+    { es: [ { el:'thunder', hp:500, atk:70, turns:1, tier:1, iron:1 } ] },
+    // S2:1星 ×2
+    { es: [ { el:'thunder', hp:480, atk:68, turns:1, tier:1, iron:1 },
+            { el:'thunder', hp:480, atk:68, turns:1, tier:1, iron:1 } ] },
+    // S3:1星護衛 ×2 + 2星大鐵機=魔王(中,放1格+2倍懲罰)
+    { es: [ { el:'thunder', hp:460, atk:66, turns:1, tier:1, iron:1 },
+            { el:'thunder', hp:620, atk:80, turns:1, tier:2, boss:true, iron:1, ironPunish:true },
+            { el:'thunder', hp:460, atk:66, turns:1, tier:1, iron:1 } ] },
+  ],
+  'thunder:beginner': [
+    // S1:2星大鐵機 ×1(放1格+2倍懲罰)
+    { es: [ { el:'thunder', hp:560, atk:90, turns:2, tier:2, iron:1, ironPunish:true } ] },
+    // S2:2星 ×2
+    { es: [ { el:'thunder', hp:540, atk:88, turns:2, tier:2, iron:1, ironPunish:true },
+            { el:'thunder', hp:540, atk:88, turns:2, tier:2, iron:1, ironPunish:true } ] },
+    // S3:1星護衛 ×2 + 3星邪惡鐵機=魔王(中,連體2格鐵塊)
+    { es: [ { el:'thunder', hp:520, atk:85, turns:2, tier:1, iron:1 },
+            { el:'thunder', hp:640, atk:98, turns:2, tier:3, boss:true, iron:2, ironPunish:true },
+            { el:'thunder', hp:520, atk:85, turns:2, tier:1, iron:1 } ] },
+  ],
+  'thunder:normal': [
+    // S1:2星 ×2
+    { es: [ { el:'thunder', hp:640, atk:100, turns:3, tier:2, iron:1, ironPunish:true },
+            { el:'thunder', hp:640, atk:100, turns:3, tier:2, iron:1, ironPunish:true } ] },
+    // S2:2星 ×2 + 3星(中,連體2格)
+    { es: [ { el:'thunder', hp:640, atk:100, turns:3, tier:2, iron:1, ironPunish:true },
+            { el:'thunder', hp:700, atk:105, turns:3, tier:3, iron:2, ironPunish:true },
+            { el:'thunder', hp:640, atk:100, turns:3, tier:2, iron:1, ironPunish:true } ] },
+    // S3:2星護衛 ×2 + 4星惡鐵王=魔王(中,連體3格)
+    { es: [ { el:'thunder', hp:660, atk:100, turns:3, tier:2, iron:1, ironPunish:true },
+            { el:'thunder', hp:1900, atk:200, turns:3, boss:true, iron:3, ironPunish:true },
+            { el:'thunder', hp:660, atk:100, turns:3, tier:2, iron:1, ironPunish:true } ] },
+  ],
+  'thunder:advanced': [
+    // S1:3星邪惡鐵機 ×2(連體2格,盤面壓力大)
+    { es: [ { el:'thunder', hp:640, atk:100, turns:3, tier:3, iron:2, ironPunish:true },
+            { el:'thunder', hp:640, atk:100, turns:3, tier:3, iron:2, ironPunish:true } ] },
+    // S2:3星 ×2 + 2星 ×1(上級自動混入1隻風屬剋敵)
+    { es: [ { el:'thunder', hp:640, atk:100, turns:3, tier:3, iron:2, ironPunish:true },
+            { el:'thunder', hp:640, atk:100, turns:3, tier:3, iron:2, ironPunish:true },
+            { el:'thunder', hp:600, atk:95, turns:3, tier:2, iron:1, ironPunish:true } ] },
+    // S3:3星護衛 ×2 + 4星惡鐵王=魔王(中,連體3格)
+    { es: [ { el:'thunder', hp:680, atk:100, turns:3, tier:3, iron:2, ironPunish:true },
+            { el:'thunder', hp:1900, atk:200, turns:3, boss:true, iron:3, ironPunish:true },
+            { el:'thunder', hp:680, atk:100, turns:3, tier:3, iron:2, ironPunish:true } ] },
+  ],
 };
 
 function _cloneStages(stages){ return stages.map(st=>({...st, es:st.es.map(e=>({...e}))})); }   // 深拷貝,避免改到原始 base
@@ -224,7 +273,7 @@ function spawnStage(dungeonId, diffKey, stageIdx){
     if(phases){ el=phases[0].el; beh=phases[0].beh; full=true; }                          // 魔王變身:完整版
     else if(d.beh){ beh=d.beh; full=(d.full===true); }                                    // 🔧OVERRIDE 直接指定行為→繞過嬰兒/初級 noSkill(特例手調用):初級也能掛畜力技等
     else if(A){ full=covered(d); beh=full?A.beh:null; }                                   // 兵種行為:covered(上級魔王/地獄)才開
-    else if(myBeh && !noSkill && !d.peck){                                               // 屬城招:中級起開(嬰兒/初級無);⚠d.peck>0(🦆賊鴨系關卡)排除在外,避免自動注入的屬城招(風=eatStored)蓋過賊鴨自己的 peck 派工(endHand 判斷順序 eatStored 排在 peck 前面,兩者都非0會讓 _eatAct 搶走本該給 _peckAct 的手,連帶 interval 算式也會被 eatStored 分支劫走)
+    else if(myBeh && !noSkill && !d.peck && !d.iron){                                     // 屬城招:中級起開(嬰兒/初級無);⚠d.peck(🦆賊鴨)、d.iron(🤖鐵機人)排除→避免自動注入的屬城招(風=eatStored/雷=paralyze)蓋過牠們自己的 peck/iron 派工(endHand 判斷順序 eatStored 排在 peck 前面,兩者都非0會讓 _eatAct 搶走本該給 _peckAct 的手,連帶 interval 算式也會被 eatStored 分支劫走)
       if(d.boss){ beh=myBeh; full=true; }                                                 // 魔王 = 完整版
       else if(covered(d)){ beh=myBeh; full=true; }                                        // 地獄雜兵 = 完整
       else if(!stageHasBoss && idx===specialIdx){ beh=myBeh; full=false; }    // 小關:指定位置的雜兵帶輕鬆版(S1右/S2中)
@@ -237,7 +286,7 @@ function spawnStage(dungeonId, diffKey, stageIdx){
     let tierV=d.tier||0, finCDV=d.finCD||0, finStagesV=d.finStages||0;
     if(dEl==='fire' && g.finisher>0 && !phases && (!full || d.boss)){ finCDV=finCDV||4; finStagesV=finStagesV||3; if(!d.boss) tierV=tierV||2; }
     const ival=(finCDV>0)?finCDV:((g.healAlly>0||(g.eatStored>0&&d.boss)||(g.paralyze>0&&d.boss))?1:turns);   // 🔥finCD=CD式畜力技的總CD(蓋過 turns);💚補師 CD=1;🌀消塊魔王 CD=1;⚡麻痺魔王 CD=1;術士 CD=turns(=2)
-    return {el,max:hp,hp:hp,atk:atk,interval:ival,timer:Math.max(2,ival),burn:0,dead:false,boss:!!d.boss,guard:(!d.boss&&stageHasBoss),...g,phases,phaseIdx:0,arch:d.arch||null,tier:tierV,finStages:finStagesV,finAnyHit:!!d.finAnyHit,finCD:finCDV,peck:d.peck||0,peckTray:!!d.peckTray,stealStored:!!d.stealStored};   // 每關初始 timer≥2;tier=星級貼圖;finStages=蓄力段數;finAnyHit=任何屬性打到即中止;finCD>0=CD式畜力;peck>0=🦆賊鴨每次攻擊偷走n個盤面格(沒格→攻擊翻倍);peckTray=連拖盤拼圖格也偷;stealStored=額外輪流吃卡上屬塊(魔女魔王消屬塊機制)
+    return {el,max:hp,hp:hp,atk:atk,interval:ival,timer:Math.max(2,ival),burn:0,dead:false,boss:!!d.boss,guard:(!d.boss&&stageHasBoss),...g,phases,phaseIdx:0,arch:d.arch||null,tier:tierV,finStages:finStagesV,finAnyHit:!!d.finAnyHit,finCD:finCDV,peck:d.peck||0,peckTray:!!d.peckTray,stealStored:!!d.stealStored,iron:d.iron||0,ironPunish:!!d.ironPunish};   // 每關初始 timer≥2;tier=星級貼圖;finStages=蓄力段數;finCD>0=CD式畜力;peck>0=🦆賊鴨偷盤面格;iron>0=🤖鐵機人放n連體鐵塊卡位(避開湊滿宮/線、盤面太緊停放;ironPunish=沒清掉下輪2倍打)
   });
 }
 

diff --git a/public/play/battle-core.js b/public/play/battle-core.js
@@ -121,14 +121,16 @@ function computeClears(board, boxElement, boxCard, enemyEl, ampMult, neutralAtk)
   boxes.forEach(b=>{const br=Math.floor(b/3)*3,bc=(b%3)*3;for(let r=br;r<br+3;r++)for(let c=bc;c<bc+3;c++)cellSet.add(r+'_'+c);});
   const mult=(el)=> el==='neutral'?1 : (EL[el].beats===enemyEl?CONFIG.ADV_MULT : (EL[enemyEl].beats===el?CONFIG.WEAK_MULT:CONFIG.NORM_MULT));
   // 逐格屬性傷害:不論宮清/線清,「每個被清的屬區格」都算該屬攻擊(card.atk × 相剋 × CELL_RATE);中性格每格固定底。cellSet 已去重→不會重複計
+  const isIron=(r,c)=>{const cell=board[r][c];return !!(cell&&cell.el==='iron');};   // 🔩鐵塊:算「填滿」(含它的宮/線能清,filled 已成立因 el!=='junk'),但清除時不計攻擊(0傷害)→減弱玩家攻擊
+  let ironN=0; cellSet.forEach(k=>{const p=k.split('_');if(isIron(+p[0],+p[1]))ironN++;});
   const elemCells={};
-  cellSet.forEach(k=>{const p=k.split('_');const e=boxElement[boxOf(+p[0],+p[1])];if(e)elemCells[e]=(elemCells[e]||0)+1;});   // 各屬區被清格數
-  let total=Math.round(cellSet.size*CONFIG.HIT_BASE), hitWeak=false, parts=[];   // 基礎:每個被清的格(含中性)都算 HIT_BASE → 清越多越強
+  cellSet.forEach(k=>{const p=k.split('_');if(isIron(+p[0],+p[1]))return;const e=boxElement[boxOf(+p[0],+p[1])];if(e)elemCells[e]=(elemCells[e]||0)+1;});   // 各屬區被清格數(排除鐵塊)
+  let total=Math.round((cellSet.size-ironN)*CONFIG.HIT_BASE), hitWeak=false, parts=[];   // 基礎:每個被清的格(排除鐵塊)算 HIT_BASE
   ELEMENT_BOXES.forEach(b=>{const card=boxCard[b], e=boxElement[b]; if(!card||e==null)return; const n=elemCells[e]||0; if(!n)return;
     const d=Math.round(card.atk*mult(e)*ampMult*CONFIG.ELEM_RATE*n); total+=d;   // 屬區格再額外加:n × 卡攻擊 × 相剋 × ELEM_RATE
     if(EL[e].beats===enemyEl)hitWeak=true;
     const br=Math.floor(b/3)*3,bc=(b%3)*3; parts.push({el:e,d,r:br+1,c:bc+1});});
-  if(neutralAtk>0){ const nC=cellSet.size-Object.values(elemCells).reduce((a,b)=>a+b,0);   // 無屬格數=清除總格-屬區格
+  if(neutralAtk>0){ const nC=cellSet.size-ironN-Object.values(elemCells).reduce((a,b)=>a+b,0);   // 無屬格數=清除總格-鐵塊-屬區格
     if(nC>0)total+=Math.round(neutralAtk*CONFIG.NORM_MULT*ampMult*CONFIG.ELEM_RATE*nC); }   // 無屬傷害 = 隊伍最高攻×普通×0.08(=屬·普通公式)
   const fx={};
   ELEMENT_BOXES.forEach(b=>{const card=boxCard[b];if(!card)return;const br=Math.floor(b/3)*3,bc=(b%3)*3;
@@ -138,7 +140,7 @@ function computeClears(board, boxElement, boxCard, enemyEl, ampMult, neutralAtk)
   Object.keys(fx).forEach(e=>{fx[e].level=Math.min(7,Math.floor((elemCells[e]||0)/3))||1;});
   const hits=[];   // 各「有清到的 3×3 宮」=一段攻擊:該宮被清格數 + 傷害(基礎+屬性);Σdmg=total
   for(let b=0;b<9;b++){const br=Math.floor(b/3)*3,bc=(b%3)*3;let cn=0;
-    for(let r=br;r<br+3;r++)for(let c=bc;c<bc+3;c++)if(cellSet.has(r+'_'+c))cn++;
+    for(let r=br;r<br+3;r++)for(let c=bc;c<bc+3;c++)if(cellSet.has(r+'_'+c)&&!isIron(r,c))cn++;   // 排除鐵塊→鐵塊不貢獻該宮攻擊(格仍在 cellSet 被移除)
     if(!cn)continue;
     const el=boxElement[b],card=boxCard[b];let d=cn*CONFIG.HIT_BASE,hel='neutral';
     if(el!=null&&card){d+=Math.round(card.atk*mult(el)*ampMult*CONFIG.ELEM_RATE*cn);hel=el;}
